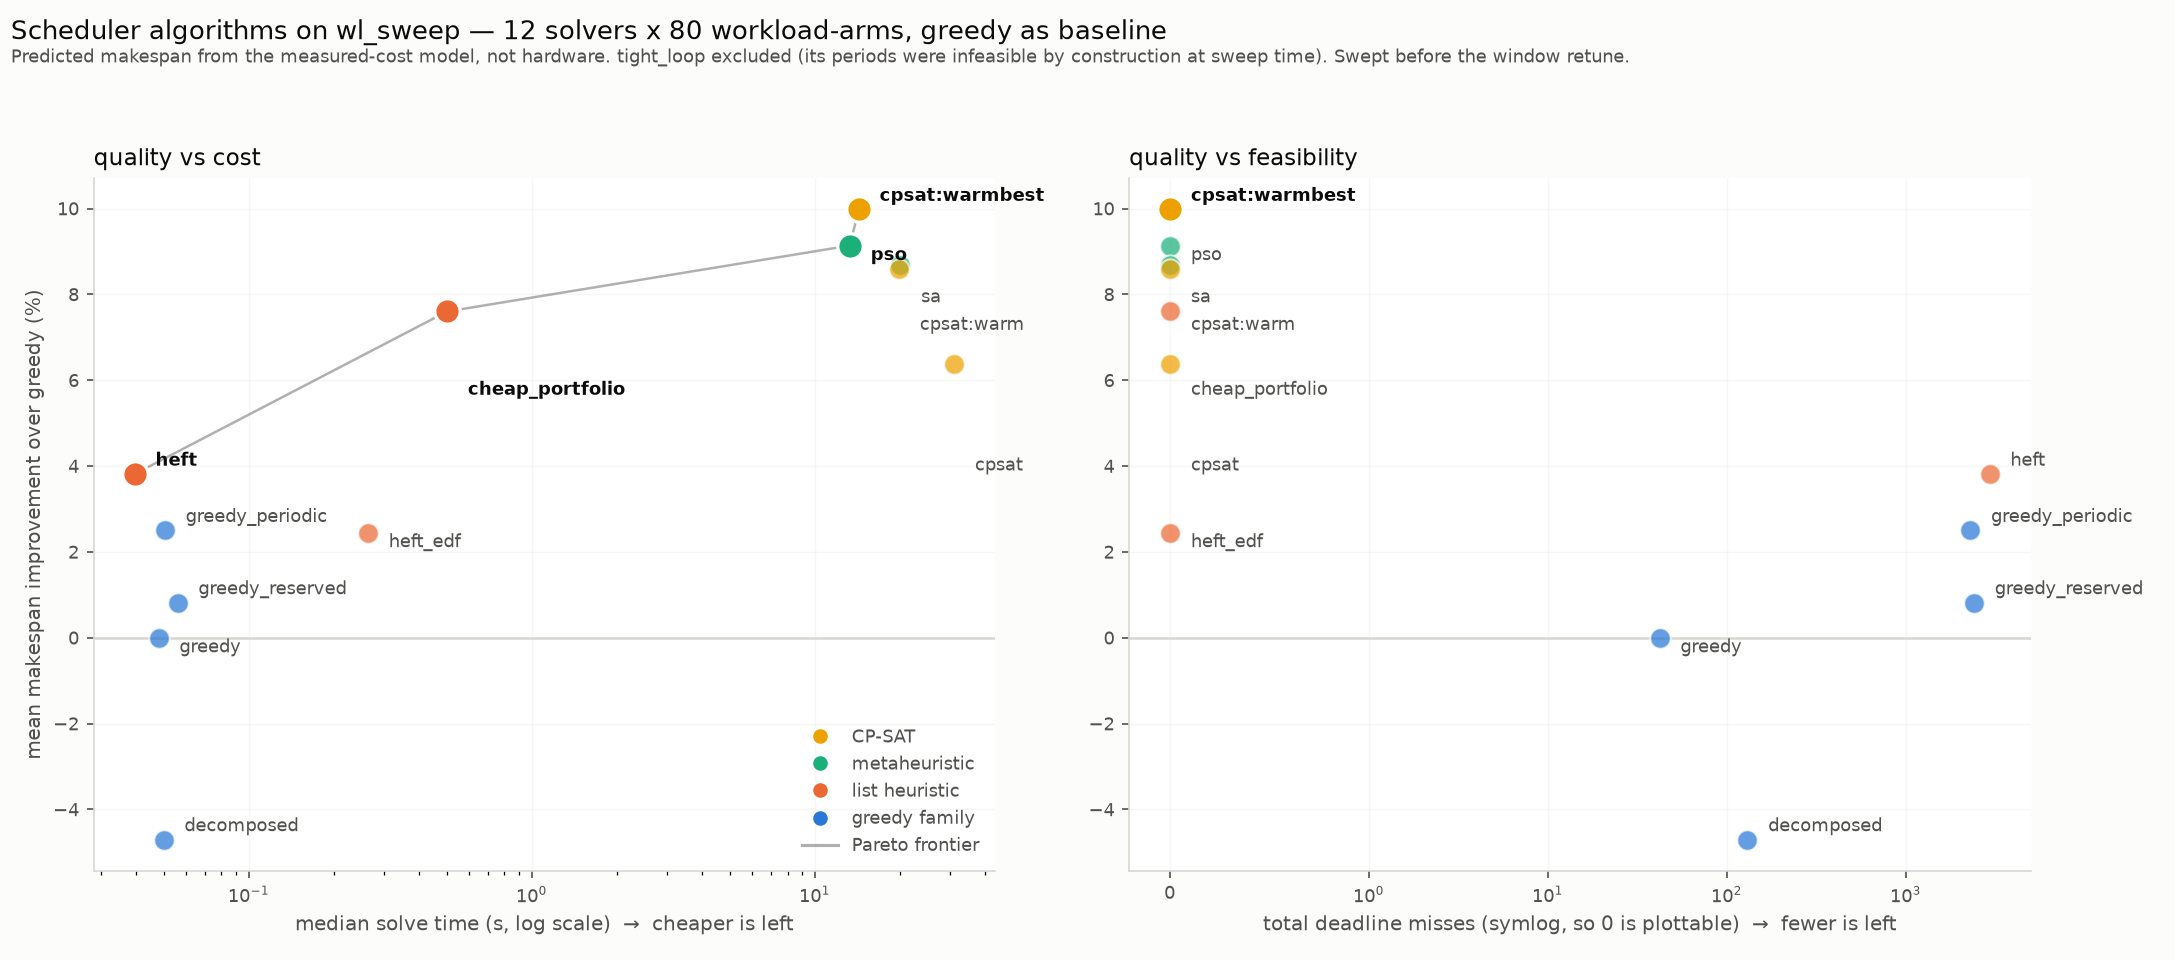
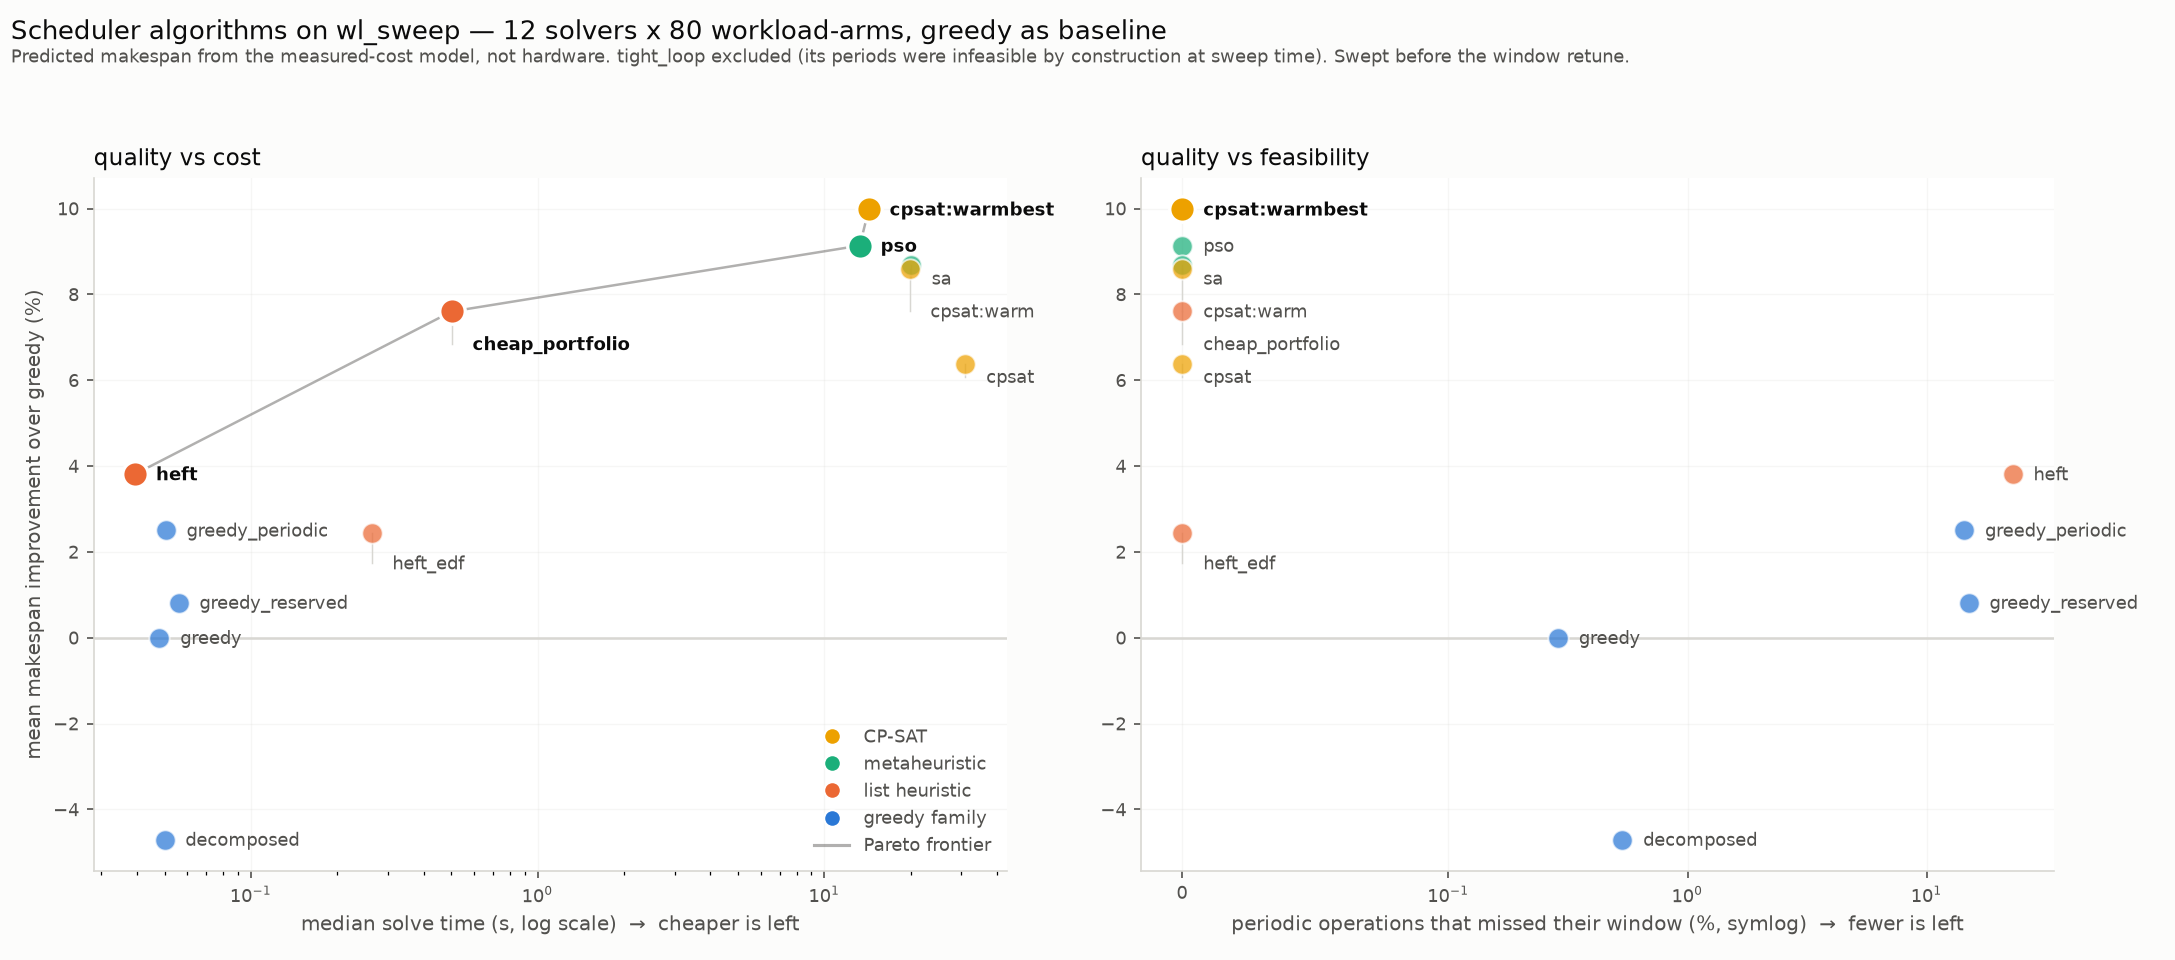
sched_algo_sweep10: normalise the feasibility axis, and place labels properly
The misses axis was a raw TOTAL summed over 80 workload-arms, which conflates
two different failures: decomposed's 130 misses are all in ONE cell while
heft's 2930 are spread over 30, so on totals decomposed reads as three times
worse than greedy while actually hitting fewer cells. The axis is now the
percentage of that cell's own periodic operations that missed, averaged across
cells -- comparable across workloads of very different size.

That reorders the bottom of the table: heft 22.9%, greedy_reserved 15.0%,
greedy_periodic 14.3%, then a large gap to decomposed 0.5% and greedy 0.3%,
with the other seven at exactly 0.0%. The headline is unchanged -- the three
'periodic-aware' heuristics miss one window in seven, while every CP-SAT
variant, both metaheuristics, heft_edf and cheap_portfolio miss none.

Label placement rewritten. A fixed offset overprints, and the downward cascade
that replaced it was worse -- it pushed a label onto the next point's label.
Labels are now placed greedily against a running floor in data space, each at
its point or just below the last one placed, with a hairline leader when it had
to move. That cannot collide by construction.

diff --git a/experiments/sched_algo_sweep10/scripts/plot_pareto.py b/experiments/sched_algo_sweep10/scripts/plot_pareto.py
@@ -50,7 +50,9 @@ for r in rows:
 
 imp = collections.defaultdict(list)
 wall = collections.defaultdict(list)
-miss = collections.Counter()
+miss = collections.Counter()          # raw total, kept for the printout
+miss_pct = collections.defaultdict(list)   # per-cell % of periodic ops missed
+hit = collections.Counter()           # cells with ANY miss
 clean = collections.Counter()
 cells = collections.Counter()
 for r in rows:
@@ -63,7 +65,16 @@ for r in rows:
     try: wall[s].append(float(r["wall_s"]))
     except (TypeError, ValueError): pass
     m = int(float(r["misses"] or 0)); miss[s] += m; cells[s] += 1
-    clean[s] += (m == 0)
+    clean[s] += (m == 0); hit[s] += (m > 0)
+    # NORMALISED, not the raw total. A total conflates "fails a little
+    # everywhere" with "fails catastrophically once": decomposed's 130 misses
+    # are all in ONE cell while heft's 2930 are spread over 30, so on totals
+    # decomposed looks 3x worse than greedy while actually hitting fewer cells.
+    # Percent of that cell's own periodic operations is comparable across
+    # workloads of very different size.
+    po = int(float(r["periodic_ops"] or 0))
+    if po:
+        miss_pct[s].append(m / po * 100.0)
 
 S = sorted(imp, key=lambda s: -statistics.mean(imp[s]))
 fig, (ax1, ax2) = plt.subplots(1, 2, figsize=(14.5, 6.4))
@@ -84,38 +95,41 @@ def frontier(ax, xs, ys, names, lower_x_better=True):
 for ax, xs, xlabel, scale in (
         (ax1, [statistics.median(wall[s]) for s in S],
          "median solve time (s, log scale)  →  cheaper is left", "log"),
-        (ax2, [miss[s] for s in S],
-         "total deadline misses (symlog, so 0 is plottable)  →  fewer is left",
+        (ax2, [statistics.mean(miss_pct[s]) for s in S],
+         "periodic operations that missed their window (%, symlog)  →  fewer is left",
          "symlog")):
     ys = [statistics.mean(imp[s]) for s in S]
     front = frontier(ax, xs, ys, S)
-    # Declutter: several solvers land within a fraction of a percent of each
-    # other, so a fixed label offset overprints them. Walk in y order and push
-    # each label clear of the previous one.
-    order = sorted(range(len(S)), key=lambda i: -ys[i])
-    span = (max(ys) - min(ys)) or 1.0
-    last_y, dy = None, 0
-    offs = {}
-    for i in order:
-        if last_y is not None and (last_y - ys[i]) < span * 0.085:
-            dy -= 11
-        else:
-            dy = 4
-        offs[i] = dy
-        last_y = ys[i]
+    # Label placement. A fixed offset overprints (several solvers land within a
+    # fraction of a percent of each other, and in the right panel seven share
+    # x=0 exactly). A naive downward cascade is worse -- it pushes a label onto
+    # the NEXT point's label. So place greedily in data space against a running
+    # floor: each label sits at its point, or just below the last one placed,
+    # whichever is lower. That cannot collide by construction.
+    lo, hi = min(ys), max(ys)
+    gap = (hi - lo) * 0.052            # ~one label height in data units
+    label_y, floor = {}, None
+    for i in sorted(range(len(S)), key=lambda i: -ys[i]):
+        y = ys[i] if floor is None else min(ys[i], floor)
+        label_y[i] = y
+        floor = y - gap
     for i, (x, y, s) in enumerate(zip(xs, ys, S)):
         fam, col = FAMILY[s]
         on = s in front
         ax.scatter([x], [y], s=150 if on else 95, color=col, zorder=3,
                    edgecolor="white", linewidth=1.6 if on else 0.9,
                    alpha=1.0 if on else 0.72)
-        ax.annotate(s, (x, y), textcoords="offset points", xytext=(10, offs[i]),
+        ly = label_y[i]
+        # a hairline leader only when the label had to move off its point
+        if abs(ly - y) > gap * 0.35:
+            ax.plot([x, x], [y, ly], color=GRID, lw=0.7, zorder=2)
+        ax.annotate(s, (x, ly), textcoords="offset points", xytext=(10, -3),
                     fontsize=8.5, color=INK if on else INK2,
                     fontweight="bold" if on else "normal", zorder=4)
     # symlog, not log, on the misses axis: six solvers sit at EXACTLY zero
     # misses, and a linear axis crushes them into one pile against heft's 2930
     # so no frontier can form. symlog keeps zero as a real, plottable value.
-    ax.set_xscale(scale, **({"linthresh": 1} if scale == "symlog" else {}))
+    ax.set_xscale(scale, **({"linthresh": 0.1} if scale == "symlog" else {}))
     ax.axhline(0, color=GRID, lw=1.2, zorder=0)
     ax.set_xlabel(xlabel, fontsize=9.5, color=INK2)
     ax.grid(alpha=0.22, lw=0.6, color=GRID)
@@ -153,7 +167,7 @@ fig.tight_layout(rect=[0, 0, 1, 0.92])
 out = os.path.join(os.path.dirname(HERE), "plots", "solver_pareto.png")
 fig.savefig(out, dpi=150, facecolor="#fcfcfb")
 print("wrote", out)
-print(f"\n  {'solver':<18}{'mean %':>9}{'med wall':>10}{'misses':>9}{'clean cells':>13}")
+print(f"\n  {'solver':<18}{'mean %':>9}{'med wall':>10}{'miss%':>10}{'total':>9}{'cells hit':>11}")
 for s in S:
     print(f"  {s:<18}{statistics.mean(imp[s]):>9.2f}{statistics.median(wall[s]):>10.2f}"
-          f"{miss[s]:>9}{clean[s]:>8}/{cells[s]}")
+          f"{statistics.mean(miss_pct[s]):>9.1f}%{miss[s]:>9}{hit[s]:>6}/{cells[s]}")
